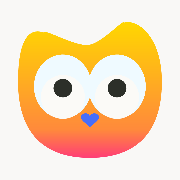
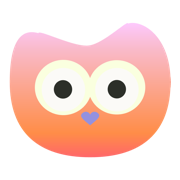
feat: adopt EVI 2.0 mascot artwork and re-anchor brand ramps
The shipped mascot was still the pre-2.0 yellow-and-blue owl while the
email logo and the BIMI mark had already moved to 2.0, so the site
contradicted its own mail. Replace the four remaining mascot assets from
the master artwork (Evi/EVI2.0N.png) and follow its geometry: the 2.0
mascot is wider than the old one (994x834 vs 877x830), so the hardcoded
intrinsic sizes in the logo component and the share-preview img move with
it, otherwise next/image stretches the artwork.

Colours are measured from the artwork rather than estimated. Three ramp
steps were off and are corrected to the pixels they claim to describe:
pink-200, orange-400 and periwinkle-400. Two anchors had no token at all
and get one: coral-500 (the lower body, decorative only — it is not
--color-danger) and halo-100 (the eye-ring). The 2.0 eye-ring is a pale
chartreuse, not the warm peach the cream ramp holds, so cream keeps its
values but no longer claims to be derived from the eye-ring.

--gradient-mascot reproduces the artwork's own vertical ramp for
decorative use; --gradient-brand and --gradient-cta are untouched, so the
existing AA-cleared CTA path is unaffected.

diff --git a/src/app/globals.css b/src/app/globals.css
@@ -12,7 +12,7 @@
   /* ---- Pink — mascot crown, primary brand pink ---- */
   --color-pink-50: #fef2fa;
   --color-pink-100: #fce0f4;
-  --color-pink-200: #f9bce8;
+  --color-pink-200: #fbaeea;
   --color-pink-300: #f68fd6;
   --color-pink-400: #f169c4;
   --color-pink-500: #e94fb0;
@@ -26,7 +26,7 @@
   --color-orange-100: #ffe1cd;
   --color-orange-200: #ffc199;
   --color-orange-300: #ff9f68;
-  --color-orange-400: #ff8a52;
+  --color-orange-400: #fe945c;
   --color-orange-500: #ff7a45;
   --color-orange-600: #e85a2c;
   --color-orange-700: #bb3f1d;
@@ -38,14 +38,21 @@
   --color-periwinkle-100: #e1defa;
   --color-periwinkle-200: #c5c0f2;
   --color-periwinkle-300: #a29ce9;
-  --color-periwinkle-400: #8b86e0;
+  --color-periwinkle-400: #9491df;
   --color-periwinkle-500: #7269d3;
   --color-periwinkle-600: #5b52bf;
   --color-periwinkle-700: #463e9e;
   --color-periwinkle-800: #332c73;
   --color-periwinkle-900: #211c4a;
 
-  /* ---- Cream — mascot eye-ring, warm neutral surfaces ---- */
+  /* ---- Coral — the mascot's lower body. Decorative only: it is not
+       --color-danger, and it never carries text. ---- */
+  --color-coral-500: #ff6e63;
+
+  /* ---- Halo — the mascot's eye-ring, measured. Use sparingly. ---- */
+  --color-halo-100: #faffdf;
+
+  /* ---- Cream — warm neutral surfaces (no longer read as the eye-ring) ---- */
   --color-cream-50: #fefcf9;
   --color-cream-100: #fdf6ec;
   --color-cream-200: #fbecd7;
@@ -161,6 +168,16 @@
     AA along its whole length (5.11:1 at its lightest), keeping the pink→orange
     reading of the original.
   */
+  /* Reproduces the mascot's own vertical ramp, measured from the artwork.
+     Decorative — never behind text. */
+  --gradient-mascot: linear-gradient(
+    180deg,
+    #fbaeea 0%,
+    #fab7c1 24%,
+    #fca58e 48%,
+    #fe945c 72%,
+    #ff6e63 100%
+  );
   --gradient-brand: linear-gradient(135deg, #e94fb0 0%, #ff7a45 100%);
   --gradient-brand-soft: linear-gradient(135deg, #fef2fa 0%, #fff3ec 100%);
   --gradient-brand-dark: linear-gradient(

diff --git a/src/app/opengraph-image.tsx b/src/app/opengraph-image.tsx
@@ -111,7 +111,7 @@ export default async function Image() {
             </div>
           </div>
 
-          <img src={mascotSrc} alt="" width={310} height={293} />
+          <img src={mascotSrc} alt="" width={310} height={260} />
         </div>
       </div>
     ),

diff --git a/src/components/brand/logo.tsx b/src/components/brand/logo.tsx
@@ -12,8 +12,8 @@ import Image from "next/image";
 
 const MASCOT = {
   src: "/assets/logo-mascot.png",
-  width: 877,
-  height: 830,
+  width: 994,
+  height: 834,
 } as const;
 
 const WORDMARK = {
